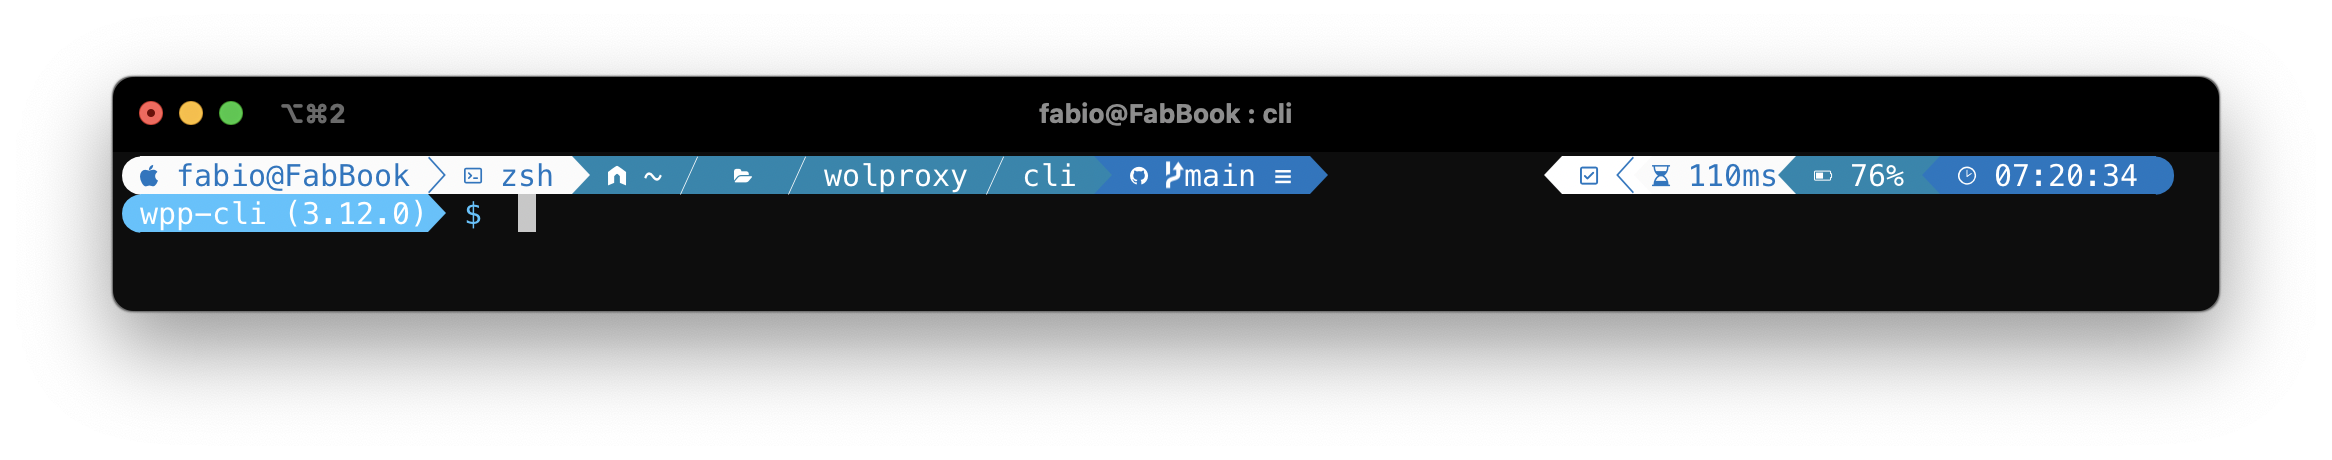
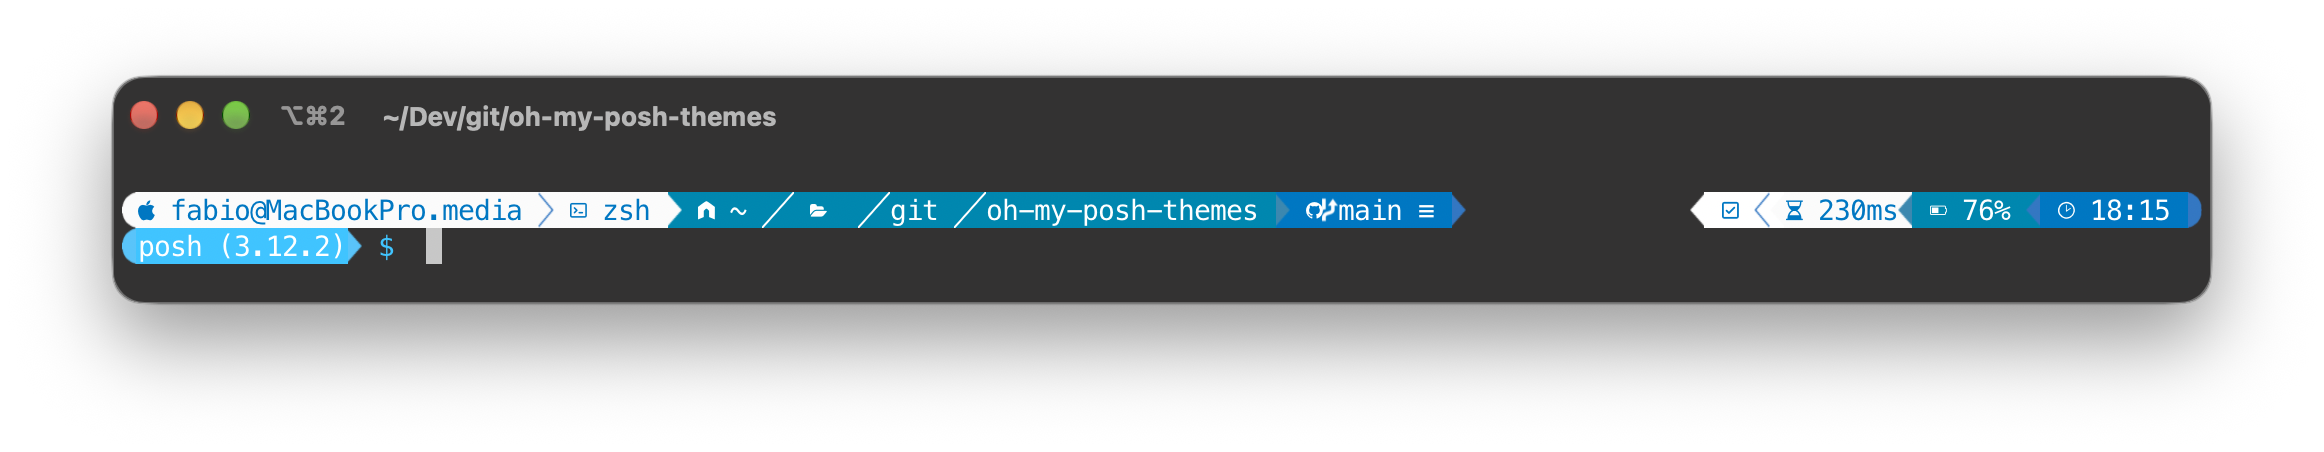
Refresh README screenshots and fix Collab theme link
Recapture the four theme screenshots in iTerm after the separator notch
fix, with both prompt sides visible. Point the Collab link at
chosenone-collab.omp.json; the previous target did not exist.

diff --git a/README.md b/README.md
@@ -65,7 +65,7 @@ source ~/.iterm2_shell_integration.zsh
 
 ![Chosen One - Blues](images/blues.png)
 
-### Chosen One - [Collab](themes/chosenone-collab.json)
+### Chosen One - [Collab](themes/chosenone-collab.omp.json)
 
 ![Chosen One - Collab](images/collab.png)
 
